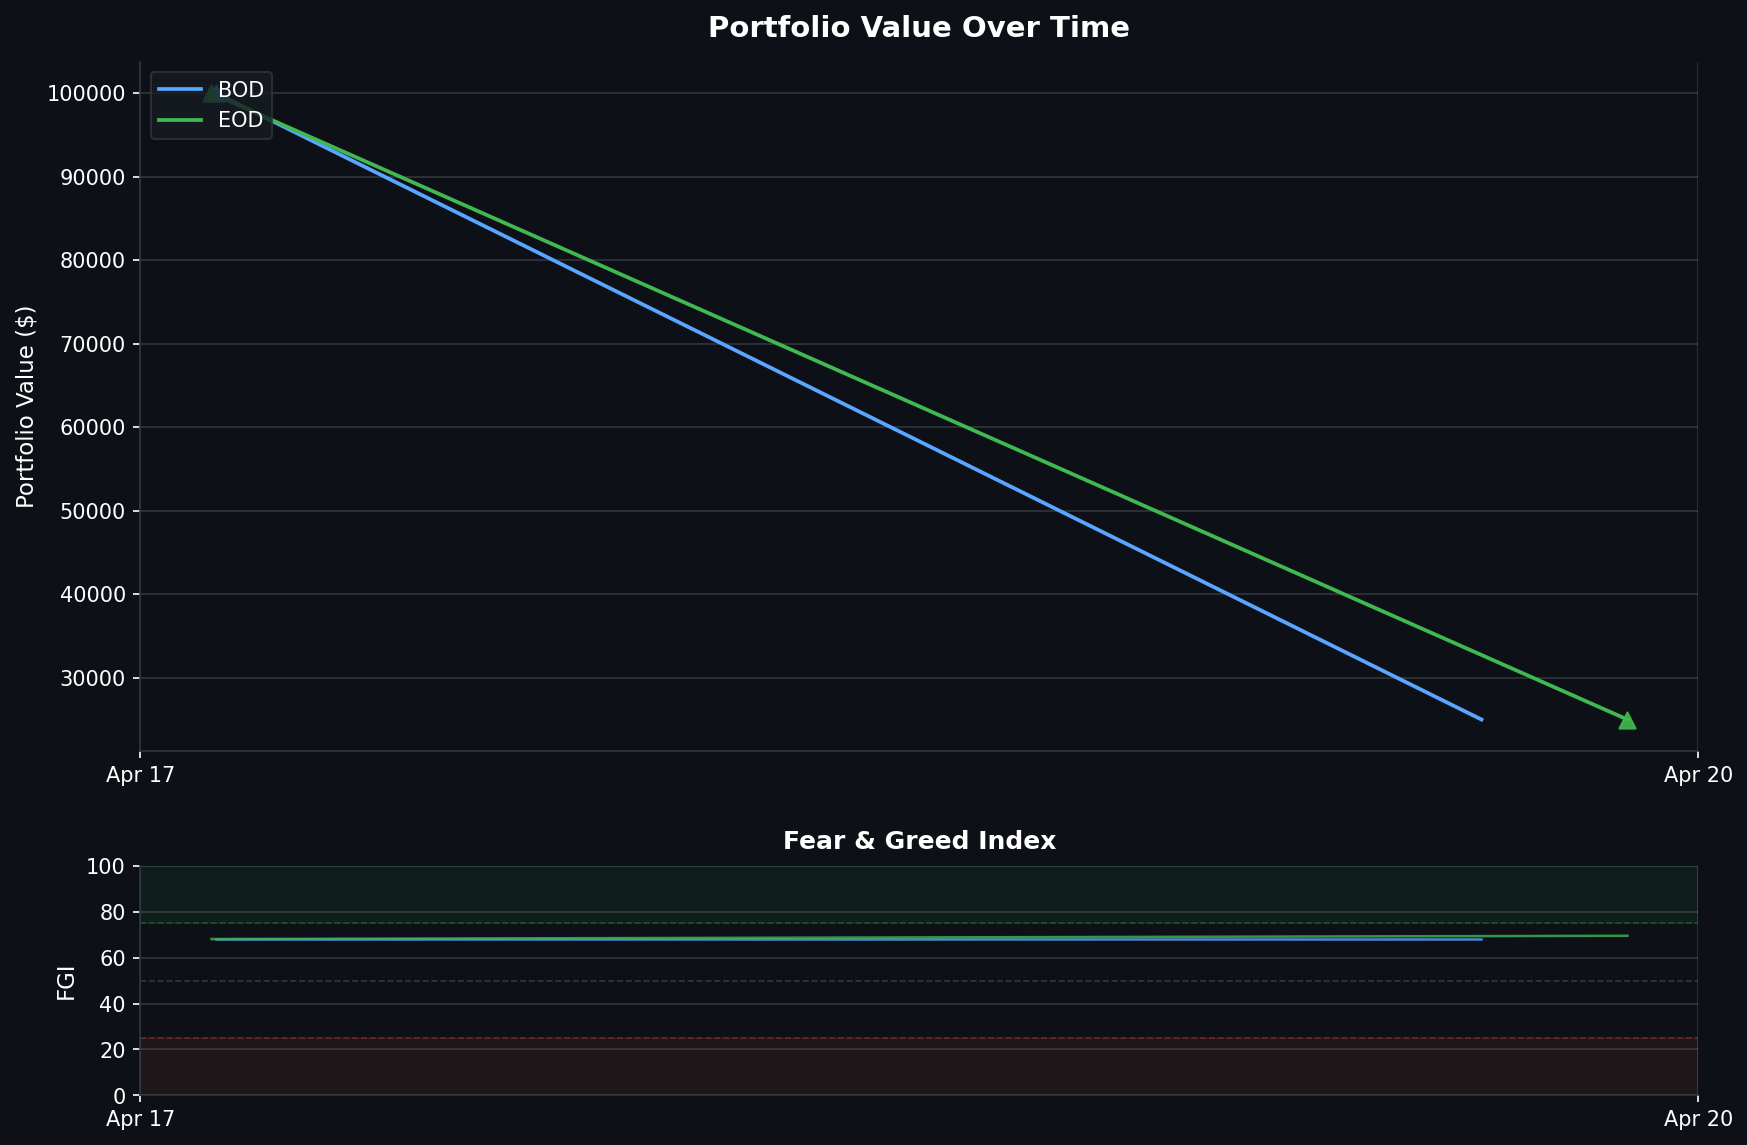
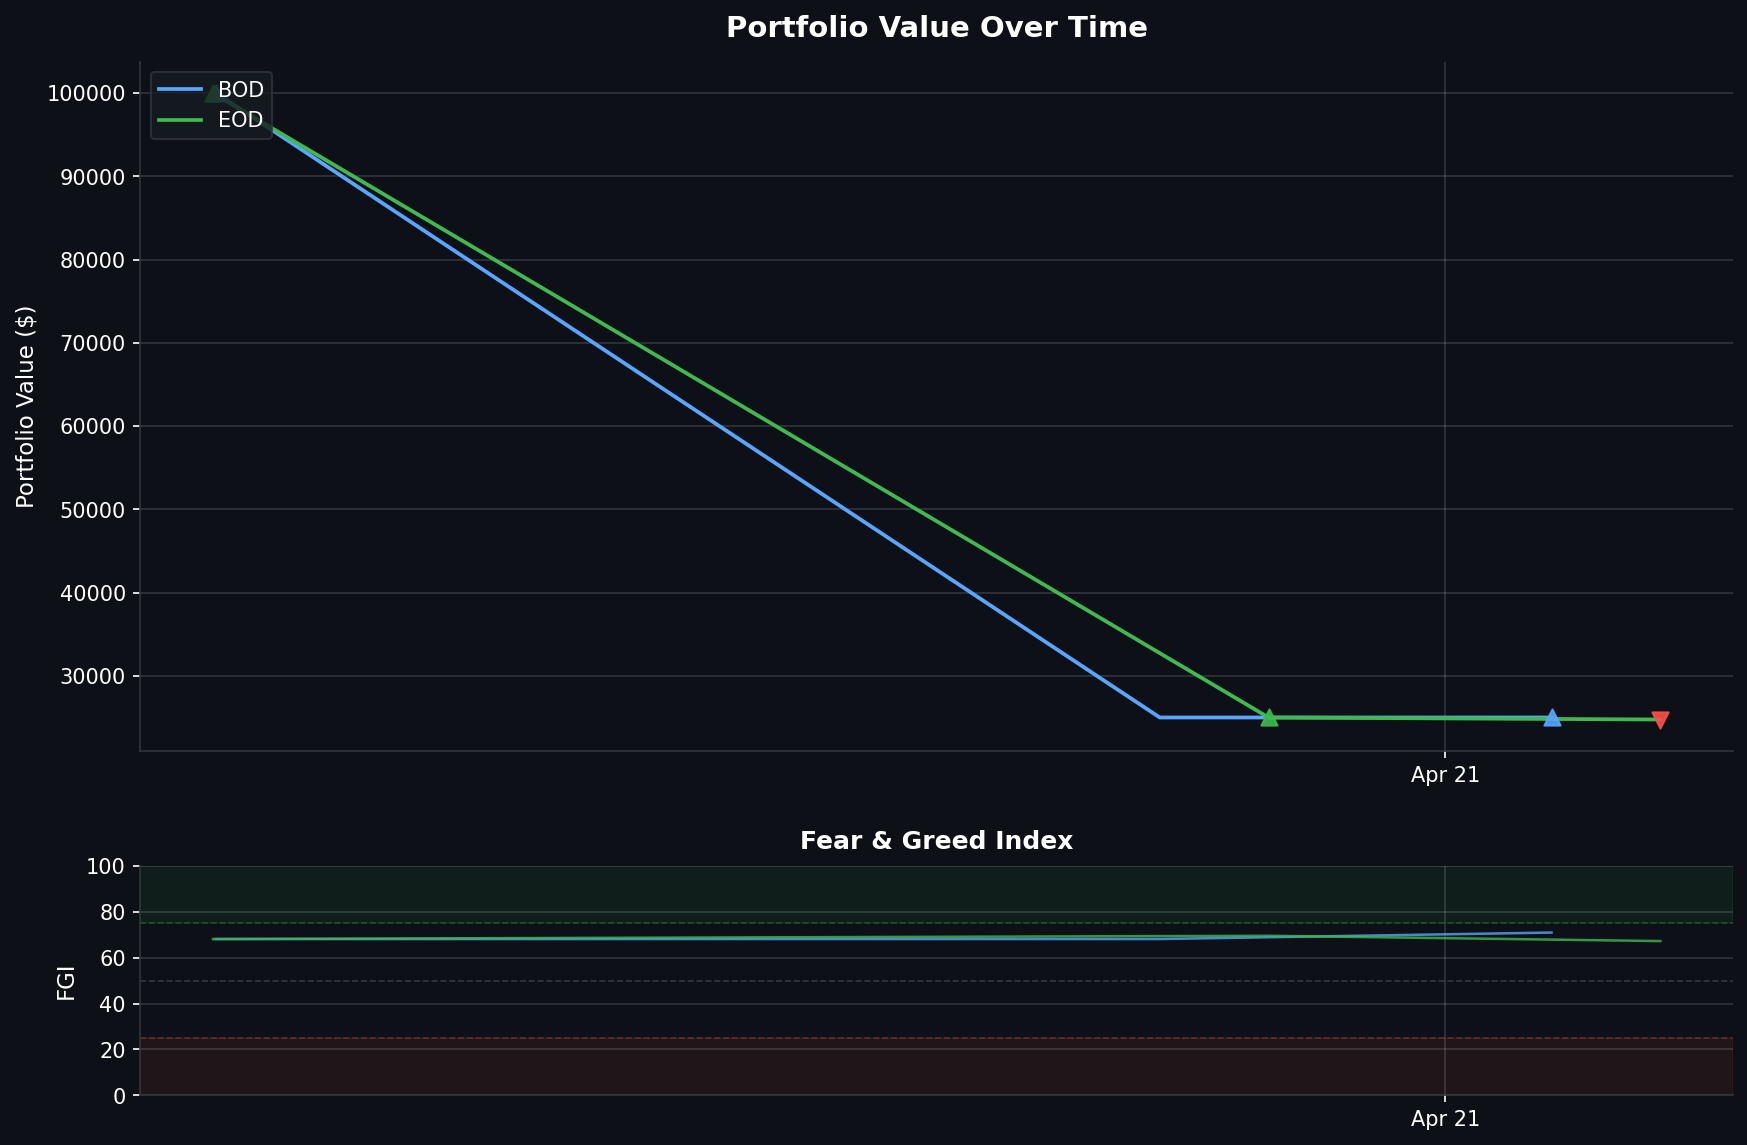
Daily data backup 2026-04-21

diff --git a/README.md b/README.md
@@ -1,6 +1,6 @@
 # Fear & Greed Index Trading Bot
 
-> Dashboard auto-updated daily at market close | Last update: **2026-04-20 13:30 PST**
+> Dashboard auto-updated daily at market close | Last update: **2026-04-21 13:30 PST**
 
 ![Portfolio Performance](assets/portfolio_chart.png)
 
@@ -12,19 +12,19 @@
 |--------|-------|
 | Portfolio Value | **$25,000.00** |
 | Buying Power | $50,000.00 |
-| Current FGI | 68.09 |
+| Current FGI | 70.91 |
 | Position | IN POSITION |
 | Total P&L | **$+0** |
 | Win Rate | 0% (0W / 0L) |
 | Total Round Trips | 0 |
-| Last Signal | NO_ACTION @ 2026-04-20 06:30 |
+| Last Signal | BOUGHT @ 2026-04-21 06:30 |
 
 <details>
 <summary>Trade History (1 trades)</summary>
 
 | Buy Date | Sell Date | Buy Price | Sell Price | Qty | P&L | Return | Result |
 |----------|-----------|-----------|------------|-----|-----|--------|--------|
-| 2026-04-17 | — | $710.14 | — | 281 | — | — | OPEN |
+| 2026-04-21 | — | $710.20 | — | 70 | — | — | OPEN |
 
 </details>
 
@@ -33,6 +33,7 @@
 
 | Time | Action | Price | FGI | Momentum | Velocity | Volatility | Reason |
 |------|--------|-------|-----|----------|----------|------------|--------|
+| 04-21 06:30 | BOUGHT | $710.20 | 70.91 | 1.88 | 0.94 | 0.1798 | Strong momentum/velocity, low volatility |
 | 04-20 06:30 | NO_ACTION | $708.99 | 68.09 | 0.00 | 1.58 | 0.1907 | Insufficient momentum/velocity for entry |
 | 04-17 20:41 | BOUGHT | $710.14 | 68.09 | 1.58 | 3.49 | 0.1894 | Strong momentum/velocity, low volatility |
 
@@ -44,20 +45,21 @@
 
 | Metric | Value |
 |--------|-------|
-| Portfolio Value | **$25,000.00** |
-| Buying Power | $50,000.00 |
-| Current FGI | 69.51 |
+| Portfolio Value | **$24,756.40** |
+| Buying Power | $150.90 |
+| Current FGI | 67.2 |
 | Position | IN POSITION |
-| Total P&L | **$+0** |
-| Win Rate | 0% (0W / 0L) |
-| Total Round Trips | 0 |
-| Last Signal | BOUGHT @ 2026-04-20 13:10 |
+| Total P&L | **$-1,683** |
+| Win Rate | 0% (0W / 1L) |
+| Total Round Trips | 1 |
+| Last Signal | SOLD @ 2026-04-21 13:10 |
 
 <details>
-<summary>Trade History (1 trades)</summary>
+<summary>Trade History (2 trades)</summary>
 
 | Buy Date | Sell Date | Buy Price | Sell Price | Qty | P&L | Return | Result |
 |----------|-----------|-----------|------------|-----|-----|--------|--------|
+| 2026-04-17 | 2026-04-21 | $710.14 | $704.15 | 281 | $-1,683 | -0.84% | LOSS |
 | 2026-04-20 | — | $708.76 | — | 70 | — | — | OPEN |
 
 </details>
@@ -67,6 +69,7 @@
 
 | Time | Action | Price | FGI | Momentum | Velocity | Volatility | Reason |
 |------|--------|-------|-----|----------|----------|------------|--------|
+| 04-21 13:10 | SOLD | $704.15 | 67.2 | -1.07 | -0.30 | 0.1798 | Momentum reversal or high volatility |
 | 04-20 13:10 | BOUGHT | $708.76 | 69.51 | 0.95 | 2.06 | 0.1907 | Strong momentum/velocity, low volatility |
 | 04-17 20:28 | BOUGHT | $710.14 | 68.09 | 1.58 | 3.49 | 0.1894 | Strong momentum/velocity, low volatility |
 | 04-17 20:29 | NO_ACTION | $710.14 | 68.09 | 1.58 | 3.49 | 0.1894 | Strong momentum/velocity, low volatility |
